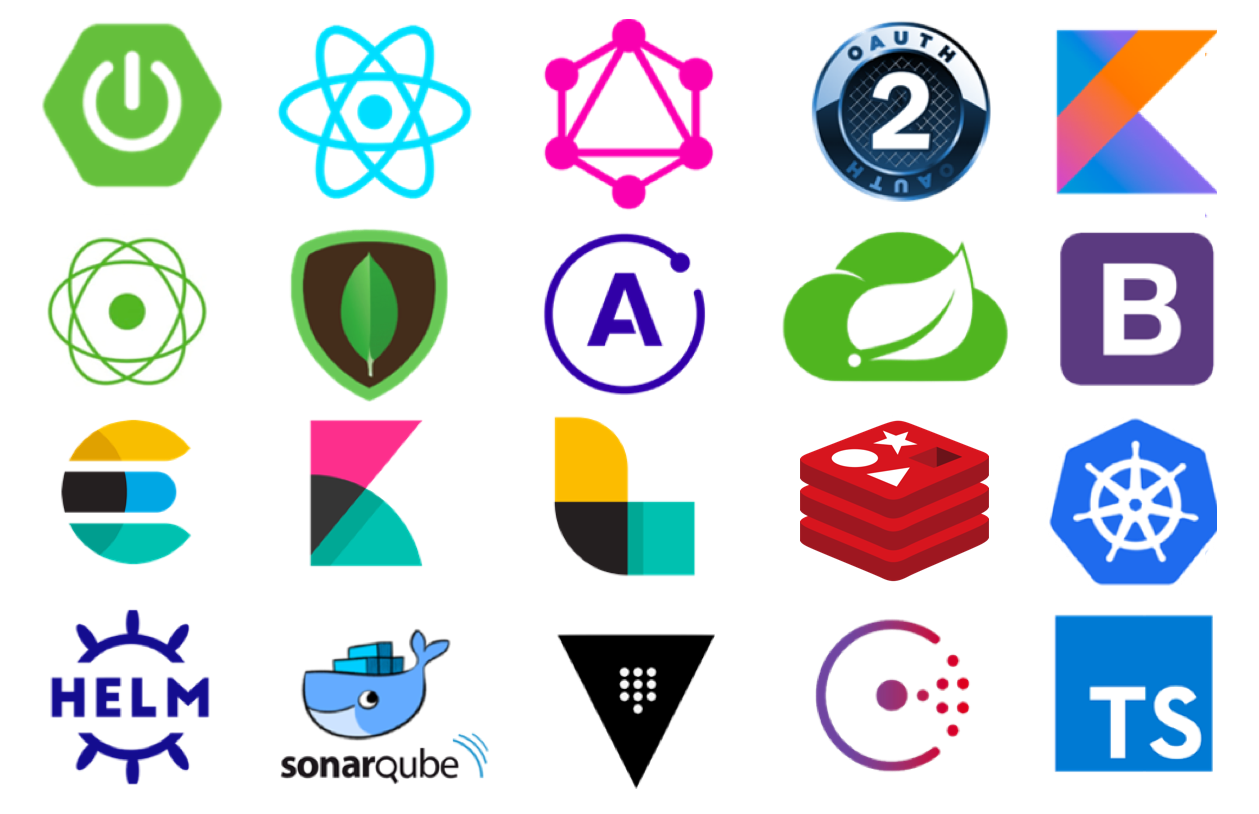
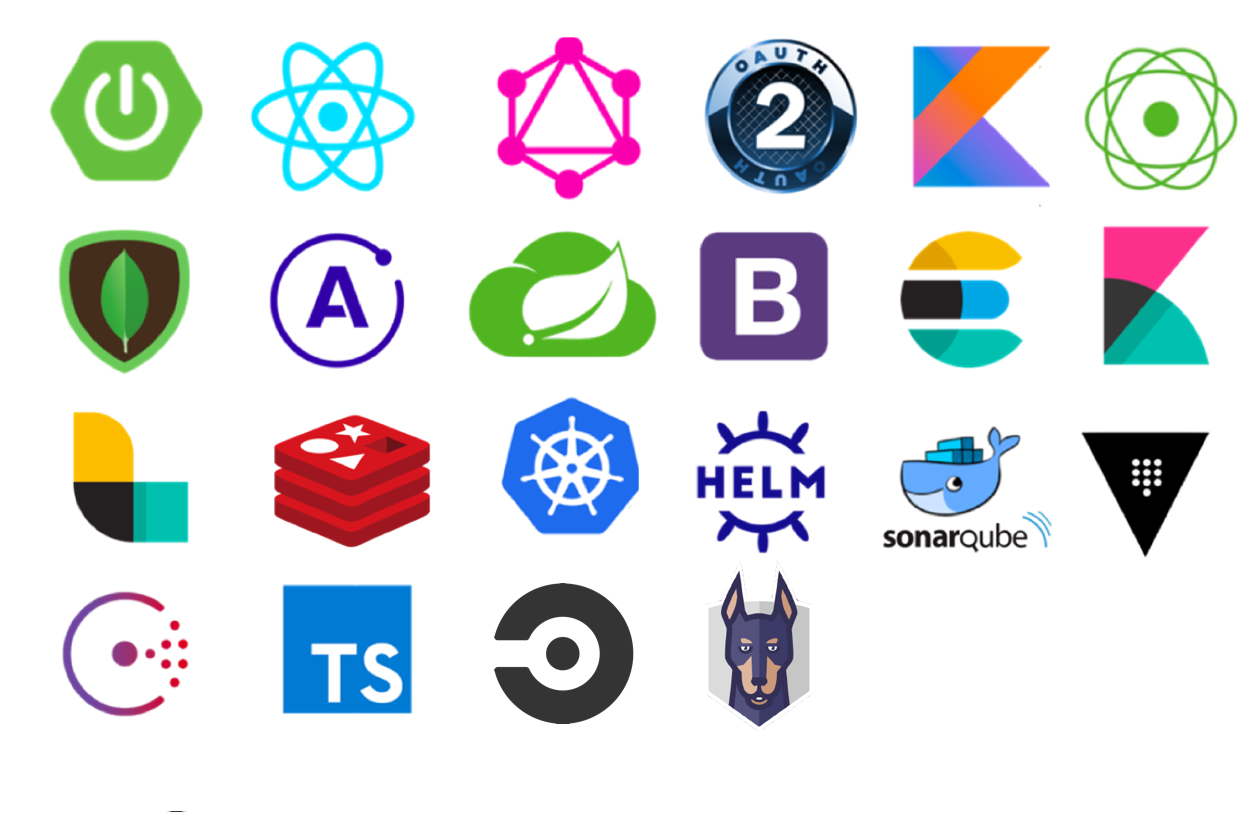
refactor README.md

diff --git a/README.md b/README.md
@@ -239,6 +239,8 @@ https://auth.susimsek.github.io
 * Kubernetes
 * Helm
 * Sonarqube
+* Circleci
+* Snyk
 * Vault
 * Consul
 * Nginx
